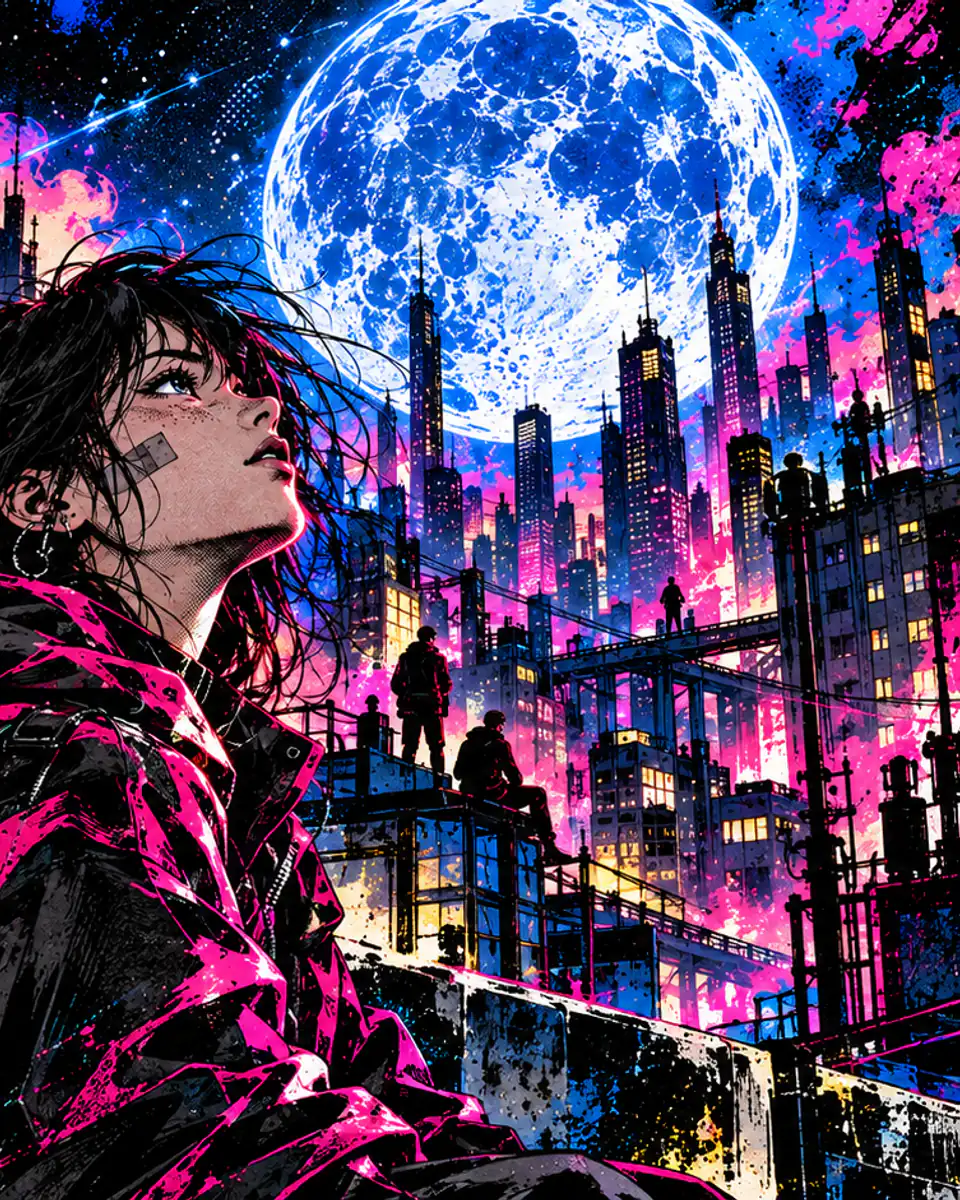
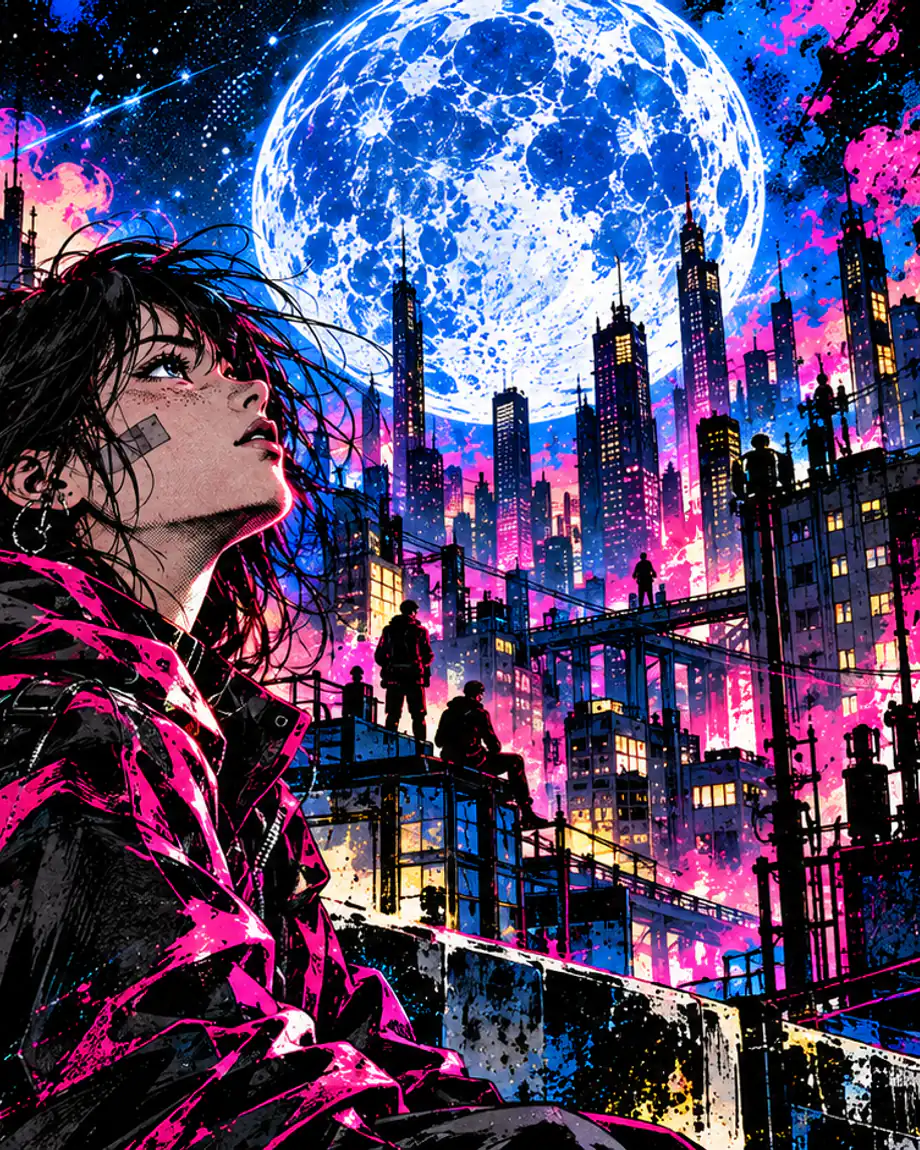
perf(ui): bring mobile hero within image budget

diff --git a/docs/assets/moonwitness/styles/tokens.css b/docs/assets/moonwitness/styles/tokens.css
@@ -103,7 +103,15 @@
   --mw-shadow-ink-lg: 6px 6px 0 0 var(--mw-ink);
   --mw-motion-fast: 120ms;
   --mw-motion-normal: 160ms;
-  --mw-motion-ease: ease;
+  --mw-motion-slow: 220ms;
+  --mw-motion-delay: 200ms;
+  --mw-motion-draw: 700ms;
+  --mw-motion-effect: 1200ms;
+  --mw-motion-pulse: 1600ms;
+  --mw-motion-progress: 1400ms;
+  --mw-motion-spin: 800ms;
+  --mw-motion-ease: cubic-bezier(0.2, 0.8, 0.2, 1);
+  --mw-motion-ease-emphasis: cubic-bezier(0.34, 1.56, 0.64, 1);
   --mw-layer-base: 0;
   --mw-layer-raised: 10;
   --mw-layer-sticky: 20;
@@ -131,5 +139,6 @@
   :root {
     --mw-motion-fast: 0ms;
     --mw-motion-normal: 0ms;
+    --mw-motion-slow: 0ms;
   }
 }

diff --git a/todo-ui.md b/todo-ui.md
@@ -198,7 +198,7 @@ Gunakan Road Rage sebagai brush display, Anton untuk judul condensed dan KPI, Sp
 - [x] Lengkapi upload/download, filter/sort, calendar, workflow, check, warning, error, dan info. Bukti: `docs/design/assets/icon-contact-sheet-current.png`.
 - [ ] Uji versi stroke/filled dan ukuran optiknya.
 - [ ] Uji icon pada 16, 20, 24, dan 32 px, termasuk focus dan disabled.
-- [x] Generate React wrappers typed dari sumber SVG canonical. Bukti: `pnpm test:ui` lulus; 50 ikon typed terbangun dari inventory.
+- [x] Generate React wrappers typed dari sumber SVG canonical. Bukti: `pnpm test:ui` lulus; 54 ikon typed terbangun dari inventory dan tes membaca jumlah dari manifest.
 - Selesaikan migrasi icon langsung sebelum menutup pekerjaan ini; setelah semua kelompok di bawah lulus pemeriksaan visual, tambahkan gate yang melarang import `lucide-react` dari app.
 - [x] Migrasikan icon story workbench ke `KnowledgeIcon`, `WarningIcon`, dan `SaveIcon`; periksa desktop, tablet, mobile, serta ejaan. Bukti: baseline `workbench-filled-{desktop-1440,tablet-1024,mobile-390}`.
 - [x] Migrasikan ikon auth ke ikon canonical public UI dan `LoadingSpinner` shared; label tombol menunjukkan submit aktif. Bukti: `docs/design/ui-catalog/auth-login-{desktop-1440,mobile-390,loading-mobile-390}.png`; visual audit responsif dan keyboard lulus; ejaan `MOONWITNESS` diperiksa.
@@ -587,7 +587,7 @@ Pertahankan satu command manual/otomatis: **`pnpm board:ui:check`**.
 - [x] Uji Button as Link dan disabled behavior. Bukti: package test mengecek semantik `aria-disabled`/tabindex; UI Catalog E2E membuktikan link enabled menavigasi, link disabled mempertahankan URL, dan keduanya memakai Button shared.
 - [x] Uji controlled/disabled/error/loading states. Bukti: `apps/ui-catalog/tests/catalog.spec.ts` menguji input dan checkbox controlled, tombol disabled, field validation dengan `aria-invalid`/`aria-describedby`, skeleton `aria-busy`, serta chart loading/error; screenshot states diperiksa visual di `test-results/ui-catalog/catalog-shared-controls-ex-32dea-lidation-and-loading-states/`.
 - [x] Uji Table sort, selection, pagination, dan overflow. Bukti: UI Catalog E2E menguji sort keyboard, seleksi semua/baris, pagination terkendali, region overflow bernama/focusable dengan Arrow Left/Right dan Home/End, serta body tanpa overflow; screenshot mobile diperiksa di `test-results/ui-catalog/catalog-shared-table-keeps-90b7b-ion-and-overflow-accessible/table-mobile.png`.
-- [x] Uji canonical SVG dan generated React wrapper. Bukti: `packages/ui/tests/icons.test.mjs` membandingkan atribut pada 50 wrapper; UI Catalog merender semua pasangan di browser dan memeriksa ukuran render, lalu contact sheet diperiksa visual dan disimpan di `docs/design/ui-catalog/canonical-vs-react-icons.png`.
+- [x] Uji canonical SVG dan generated React wrapper. Bukti: `packages/ui/tests/icons.test.mjs` membandingkan atribut pada seluruh 54 wrapper sesuai manifest; UI Catalog merender semua pasangan di browser dan memeriksa ukuran render, lalu contact sheet diperiksa visual dan disimpan di `docs/design/ui-catalog/canonical-vs-react-icons.png`.
 - [x] Uji inventory, lisensi, package exports, dan generator deterministik. Bukti: `pnpm test:assets` (24/24) memeriksa exact inventory, provenance/hash font, dan isi tarball; `pnpm assets:generate` dijalankan dua kali dan hash seluruh media tetap identik.
 - [x] Uji mute persistence, lazy load, dan playback failure. `packages/ui/tests/audio.test.mjs` mencakup preference, gating, constructor/reject, dan overlap; UI Catalog E2E membuktikan default mute, toggle tersimpan setelah reload, tanpa request audio saat muted, dan request baru saat cue eksplisit dimainkan. Screenshot label ditinjau dan disimpan di `docs/design/ui-catalog/sound-toggle-enabled-state.png`.
 - [x] Uji reduced-motion tanpa kehilangan informasi state. Bukti: UI Catalog E2E mengonfirmasi animasi dekoratif berhenti pada `prefers-reduced-motion: reduce` sementara label “Story saved” dan “Loading preview…” tetap terlihat; screenshot diperiksa visual dan ejaan di `docs/design/ui-catalog/reduced-motion-states.png`.
@@ -620,7 +620,7 @@ Pertahankan satu command manual/otomatis: **`pnpm board:ui:check`**.
 - [ ] Smoke test runtime Docker dan asset response.
 - [ ] Pertahankan budget JS/CSS existing tanpa menaikkannya untuk menyembunyikan regresi.
 - [ ] Target hero desktop maksimal sekitar 500 KB.
-- [ ] Target hero mobile maksimal sekitar 220 KB.
+- [x] Target hero mobile maksimal sekitar 220 KB. Output WebP 920×1150 berukuran 214,252 byte; test aset membatasi ukuran ≤220,000 byte. Screenshot home mobile/desktop serta ejaan `MOONWITNESS` direview: `docs/design/ui-catalog/homepage-hero-mobile-budget.png` dan `homepage-hero-desktop-budget.png`.
 - [x] Jaga masthead Board dan Story workbench pada target sekitar 180 KB. Bukti: `packages/assets/illustrations/board-masthead.webp` 168 KB; `packages/assets/illustrations/story-workbench-masthead.webp` 177 KB.
 - [ ] Target font viewport awal maksimal sekitar 160 KB.
 - [ ] Ukur transfer cold load, lazy assets, dan layout shift melalui browser.
